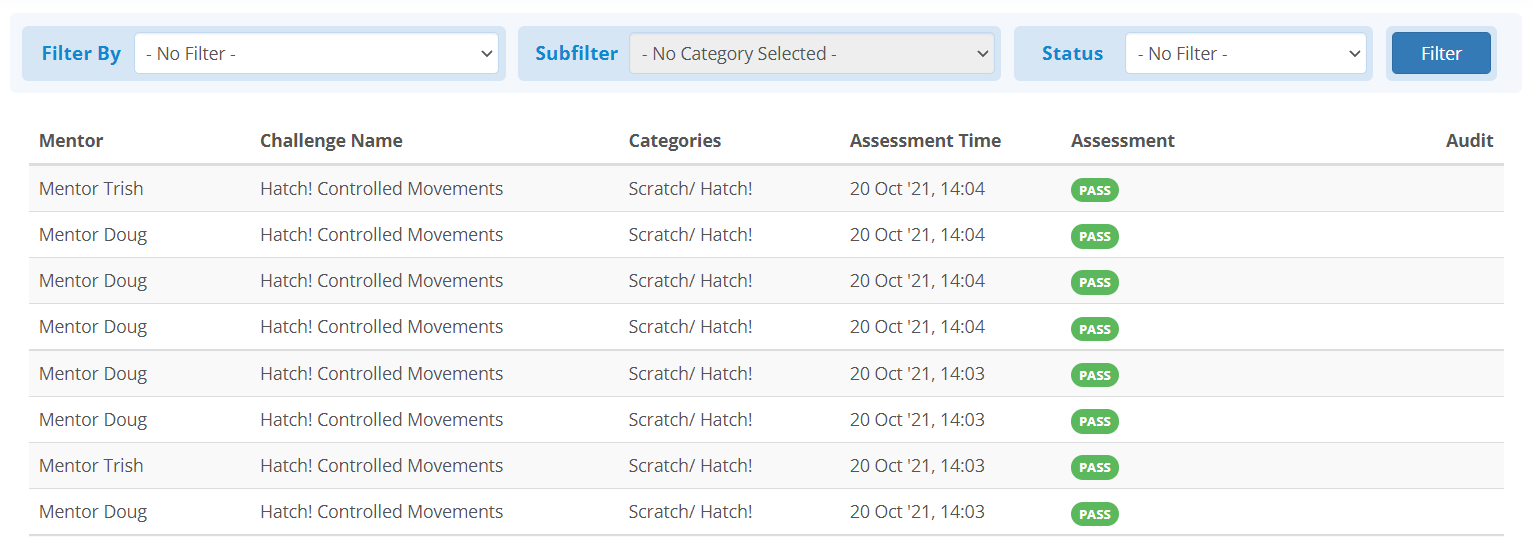
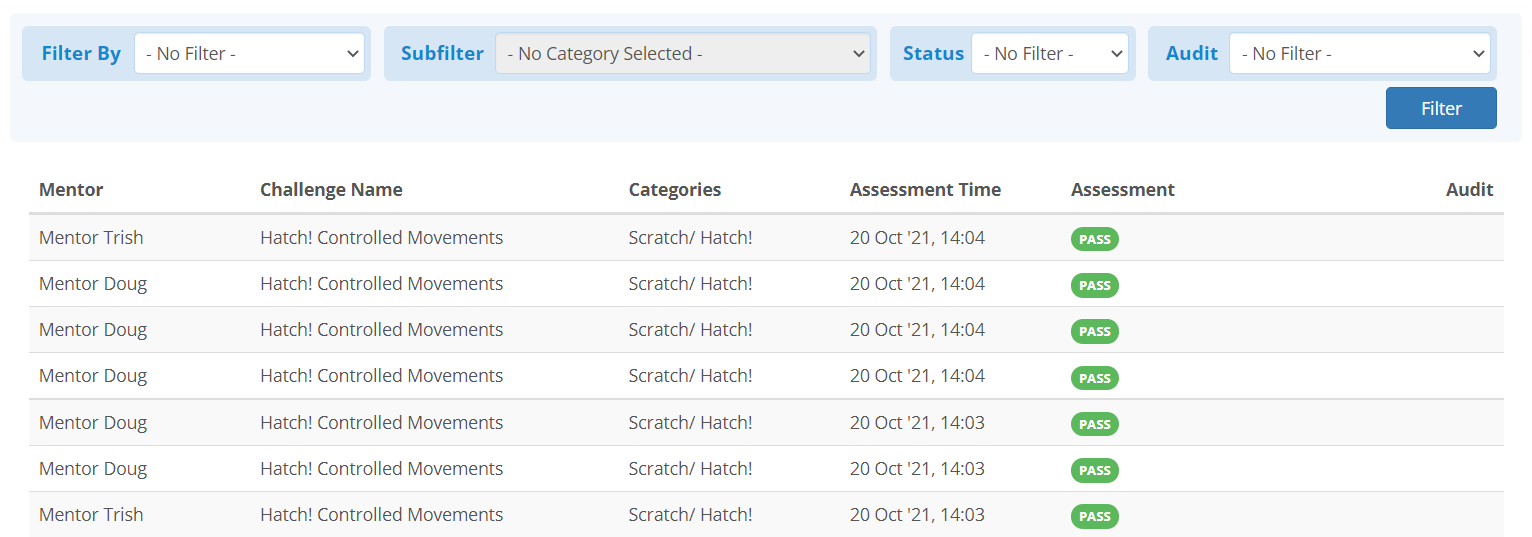
update audit img and add default filter section

diff --git a/docs/sub/check/filter.md b/docs/sub/check/filter.md
@@ -65,3 +65,20 @@ label to the right of the word **Challenges**:
 ![Group Name Label](../../img/check/filter_group_name.png){:.center}
 *Note: if the group's name is too long, to show on one line, it will be*
 *truncated like shown above*
+
+## Setting a Default Filter
+If you find yourself in the situation where you very often use one filter over
+every other including the default **All solutions** view, you may set your
+default view to the currently active filter at any time by clicking the **Set**
+**current filter as my default view** option in the main filter dropdown:
+
+![Set Default Filter](../../img/check/filter_dropdown_set_default.png){:.center}
+
+Now, every time when you visit the solution checking page, the default view
+will be whatever your current filter was. Please note that changes to your
+community member group setups may alter your set default view depending on what
+you had set it to.
+
+**If you wish to reset to the original default view:** Simply choose the
+**All solutions** option from the filter dropdown, then select the **Set**
+**current filter as my default view** option again.
